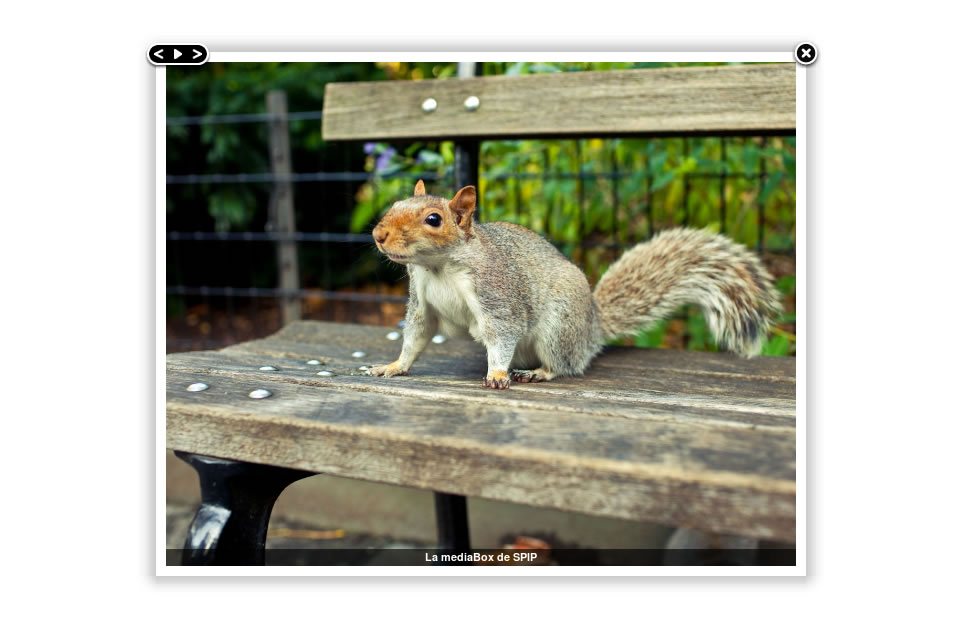
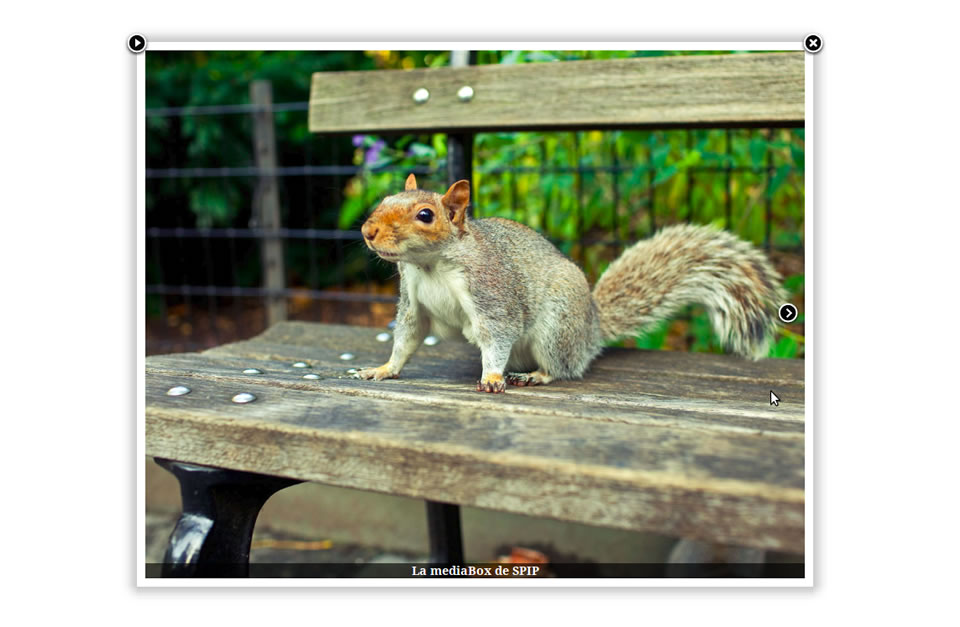
remise au propre du theme fancybox pour mediabox

diff --git a/colorbox/fancybox/colorbox_rtl.css b/colorbox/fancybox/colorbox_rtl.css
@@ -33,18 +33,16 @@
         #cboxTitle{ position: absolute; right: 10px; left: 10px; bottom: 10px; padding: 0 10px;
         	text-align: center; color: #fff; font-weight: bold; font-size: 0.9em; background-image: url('images/fancy_title_over.png'); }
         #cboxCurrent{position: absolute; right: -3000em}
-        #cboxPrevious{position: absolute; top: -12px; right: -11px; width: 22px; height: 30px;
-        	background:url(images/fancy_right.png) no-repeat; text-indent:-9999px;}
-        #cboxPrevious.hover{}
-        #cboxNext{position:absolute; top: -12px; right: 33px; width: 22px; height: 30px;
-        	background:url(images/fancy_left.png) no-repeat; text-indent:-9999px;}
-        #cboxNext.hover{}
-        #cboxSlideshow{position:absolute; top: -12px; right:11px; width: 22px; height: 30px;
-        	background:url(images/fancy_play.png) no-repeat; text-indent:-9999px;}
+        #cboxPrevious{position: absolute; top: 0; right: 15px; width: 35% ; height: 100%; text-indent:-9999px;}
+        #cboxPrevious.hover{background:url(images/fancy_right.png) right 50% no-repeat;}
+        #cboxNext{position: absolute; top: 0; left: 15px; width: 35% ; height: 100%; text-indent:-9999px;}
+        #cboxNext.hover{background:url(images/fancy_left.png) left 50% no-repeat;}
+        #cboxSlideshow{position:absolute; top: -12px; right:-15px; width: 30px; height: 30px;
+        	background:url(images/fancy_play.png) 0 0 no-repeat; text-indent:-9999px;}
         #cboxLoadingOverlay{background:#fff;}
         #cboxLoadingGraphic{background:url(images/loading.gif) center center no-repeat;}
         #cboxClose{position:absolute; top: -12px; left: -15px; height: 30px; width: 30px;
-        	background:url(images/fancy_closebox.png) 0px 0px no-repeat; text-indent:-9999px;}
+        	background:url(images/fancy_closebox.png) 0 0 no-repeat; text-indent:-9999px;}
 
         .cboxSlideshow_on #cboxSlideshow{background:url(images/fancy_pause.png) no-repeat;}
         .cboxSlideshow_off #cboxSlideshow{background:url(images/fancy_play_rtl.png) no-repeat;}

diff --git a/colorbox/fancybox/colorbox.css b/colorbox/fancybox/colorbox.css
@@ -33,18 +33,16 @@
         #cboxTitle{ position: absolute; left: 10px; right: 10px; bottom: 10px; padding: 0 10px;
         	text-align: center; color: #fff; font-weight: bold; font-size: 0.9em; background-image: url('images/fancy_title_over.png'); }
         #cboxCurrent{position: absolute; left: -3000em}
-        #cboxPrevious{position: absolute; top: -12px; left: -11px; width: 22px; height: 30px;
-        	background:url(images/fancy_left.png) no-repeat; text-indent:-9999px;}
-        #cboxPrevious.hover{}
-        #cboxNext{position:absolute; top: -12px; left: 33px; width: 22px; height: 30px;
-        	background:url(images/fancy_right.png) no-repeat; text-indent:-9999px;}
-        #cboxNext.hover{}
-        #cboxSlideshow{position:absolute; top: -12px; left:11px; width: 22px; height: 30px;
-        	background:url(images/fancy_play.png) no-repeat; text-indent:-9999px;}
+        #cboxPrevious{position: absolute; top: 0; left: 15px; width: 35% ; height: 100%; text-indent:-9999px;}
+        #cboxPrevious.hover{background:url(images/fancy_left.png) left 50% no-repeat;}
+        #cboxNext{position: absolute; top: 0; right: 15px; width: 35% ; height: 100%; text-indent:-9999px;}
+        #cboxNext.hover{background:url(images/fancy_right.png) right 50% no-repeat;}
+        #cboxSlideshow{position:absolute; top: -12px; left:-15px; width: 30px; height: 30px;
+        	background:url(images/fancy_play.png) 0 0 no-repeat; text-indent:-9999px;}
         #cboxLoadingOverlay{background:#fff;}
         #cboxLoadingGraphic{background:url(images/loading.gif) center center no-repeat;}
         #cboxClose{position:absolute; top: -12px; right: -15px; height: 30px; width: 30px;
-        	background:url(images/fancy_closebox.png) 0px 0px no-repeat; text-indent:-9999px;}
+        	background:url(images/fancy_closebox.png) 0 0 no-repeat; text-indent:-9999px;}
 
         .cboxSlideshow_on #cboxSlideshow{background:url(images/fancy_pause.png) no-repeat;}
         .cboxSlideshow_off #cboxSlideshow{background:url(images/fancy_play.png) no-repeat;}
